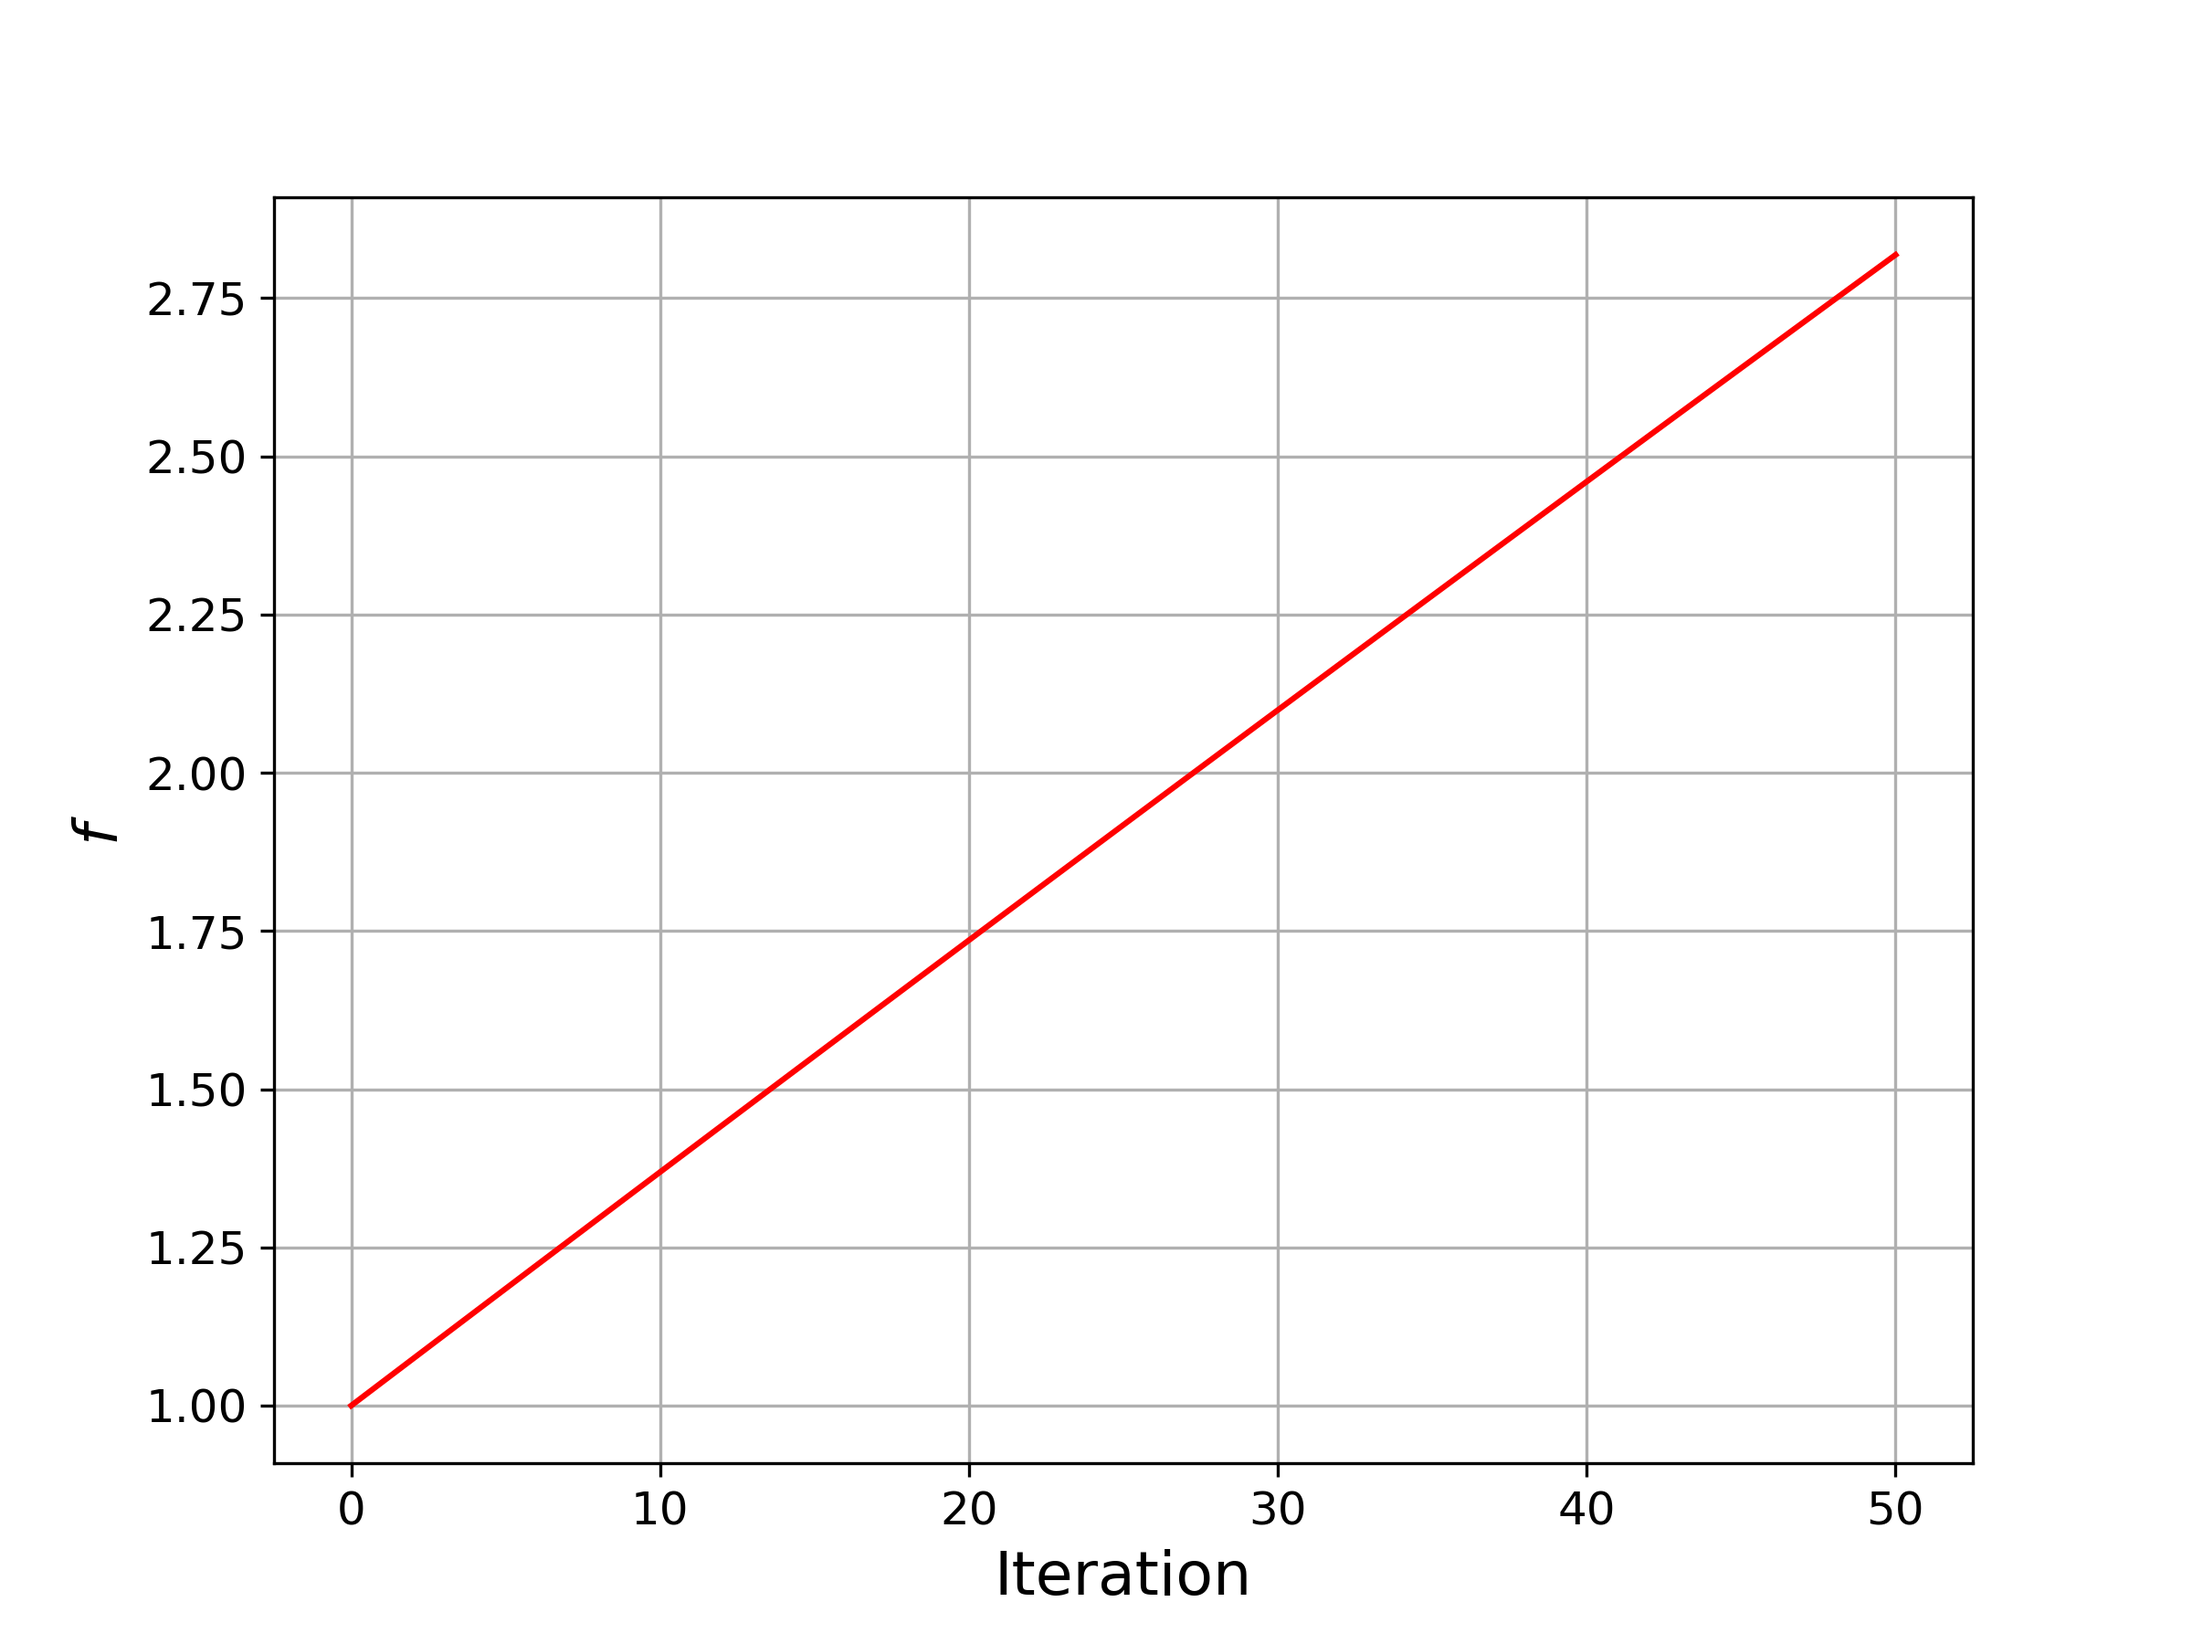
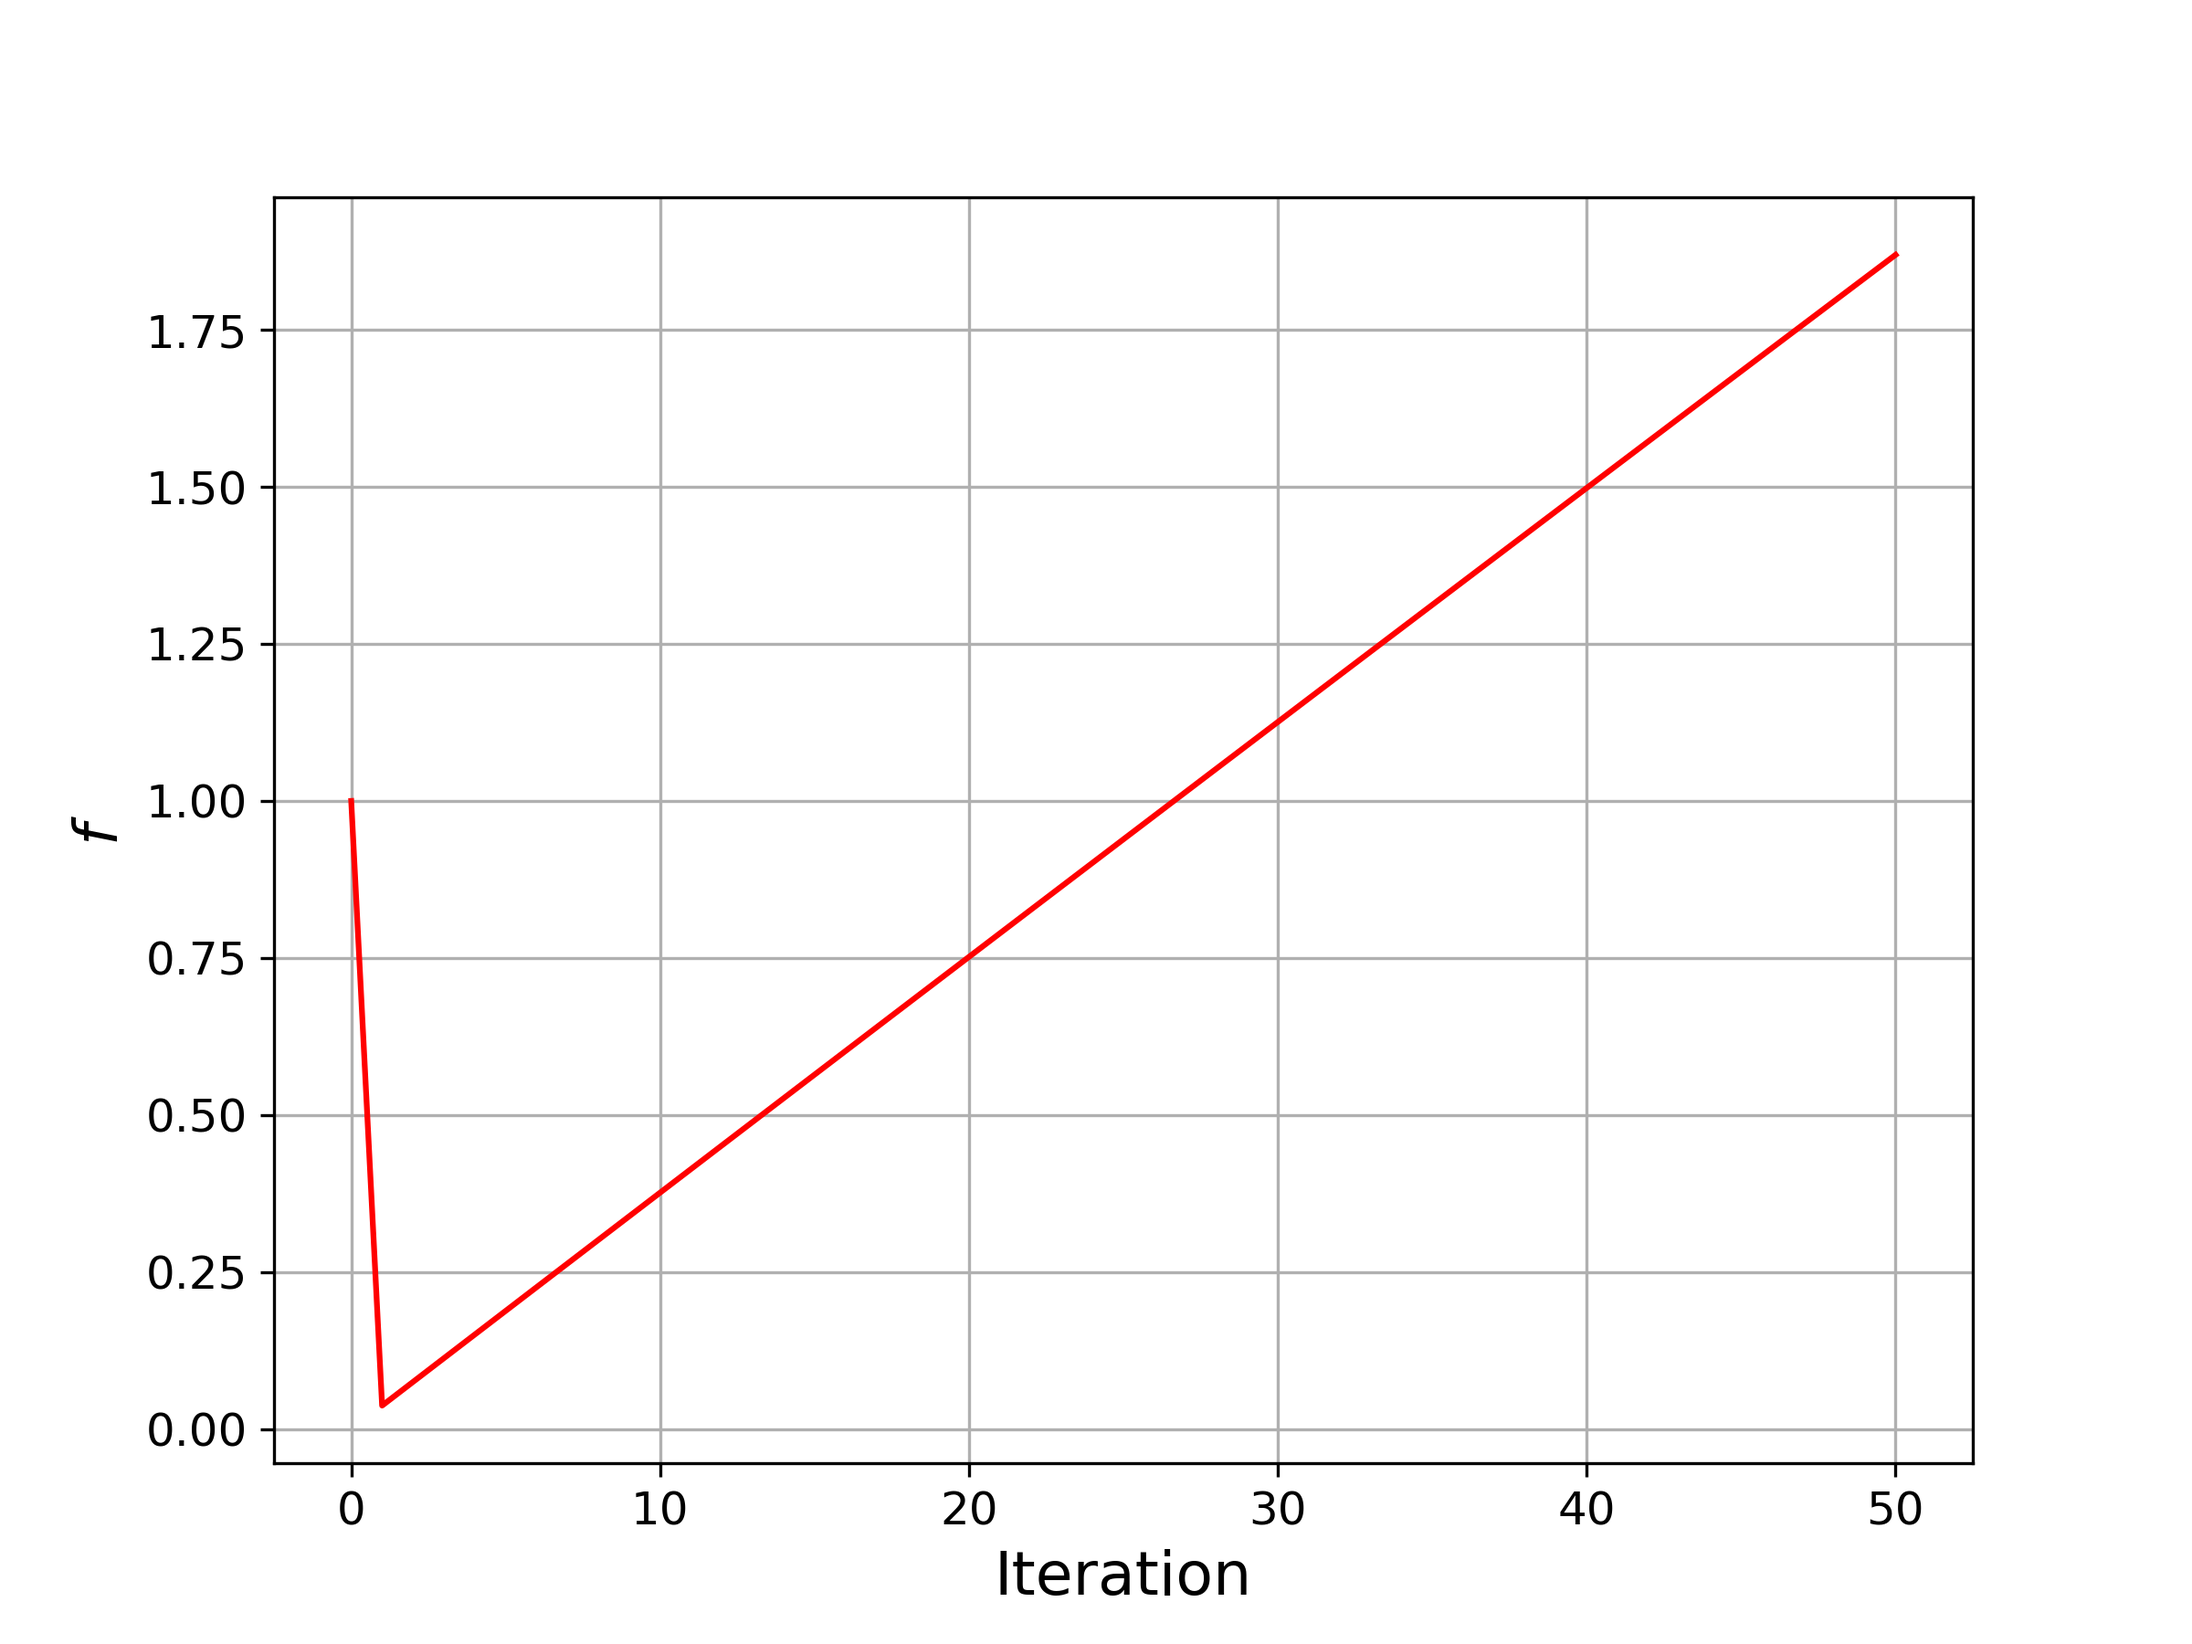
little changes, still does not work

diff --git a/pcb/optimization2.py b/pcb/optimization2.py
@@ -9,7 +9,7 @@ from mpi4py import MPI
 import numpy as np
 
 kappa = 4
-Q_total = 10  # W
+Q_total = 1  # W
 u_edge = 50  # C
 
 mesh, subdomains, facet_tags = gmshio.read_from_msh("MeshDir/3D_data.msh", MPI.COMM_WORLD, rank = 0, gdim = 3)
@@ -101,9 +101,9 @@ with XDMFFile(MPI.COMM_WORLD, "ResultsDir/u_adjoint.xdmf", "w", encoding=XDMFFil
     xdmf.write_function(u_adjoint)
 
 
-dJ_df_form = form(u_adjoint * dx)
+dJ_df_form = form(u_adjoint * dx(q_tag))
 
-alpha = 1e2
+alpha = 2e3
 
 scalar_f = [Q_total]
 
@@ -113,22 +113,17 @@ for i in range(50):
     Iu.value = assemble_scalar(form((w0 * (u_direct - u_desired)) * dx))
     u_adjoint = problem_adjoint.solve()
 
+    # Compute gradient with respect to Q_total
+    dJ_dQ = (1.0 / V_pcb) * assemble_scalar(dJ_df_form)
 
     J = abs(u_direct.x.array.max()-u_desired)
-    delJ_delf = assemble_scalar(dJ_df_form)
-    print(f"Functional: {J:.3f}, delJ_delf: {delJ_delf:.6f}, Q_total: {Q_total*V_pcb:.3f} ")
+    print(f"Functional: {J:.3f}, delJ_delf: {dJ_dQ:.6f}, Q_total: {Q_total*V_pcb:.3f} ")
     if J<2:
         break
-
-    # Compute gradient with respect to Q_total
-    integral_local = assemble_scalar(form(u_adjoint * dx(q_tag)))   # ∫_{pcb} p dx
-    integral_global = mesh.comm.allreduce(integral_local, op=MPI.SUM)
-    dJ_dQ = (1.0 / V_pcb) * integral_global
 
     # Gradient-descent update
     Q_total += alpha * dJ_dQ
 
-    # Q_total = delJ_delf * alpha + Q_total
     q_tot = Q_total
     f.x.array[subdomain_cells] = np.full_like(subdomain_cells, q_tot, dtype=default_scalar_type)
     scalar_f.append(Q_total*V_pcb)
